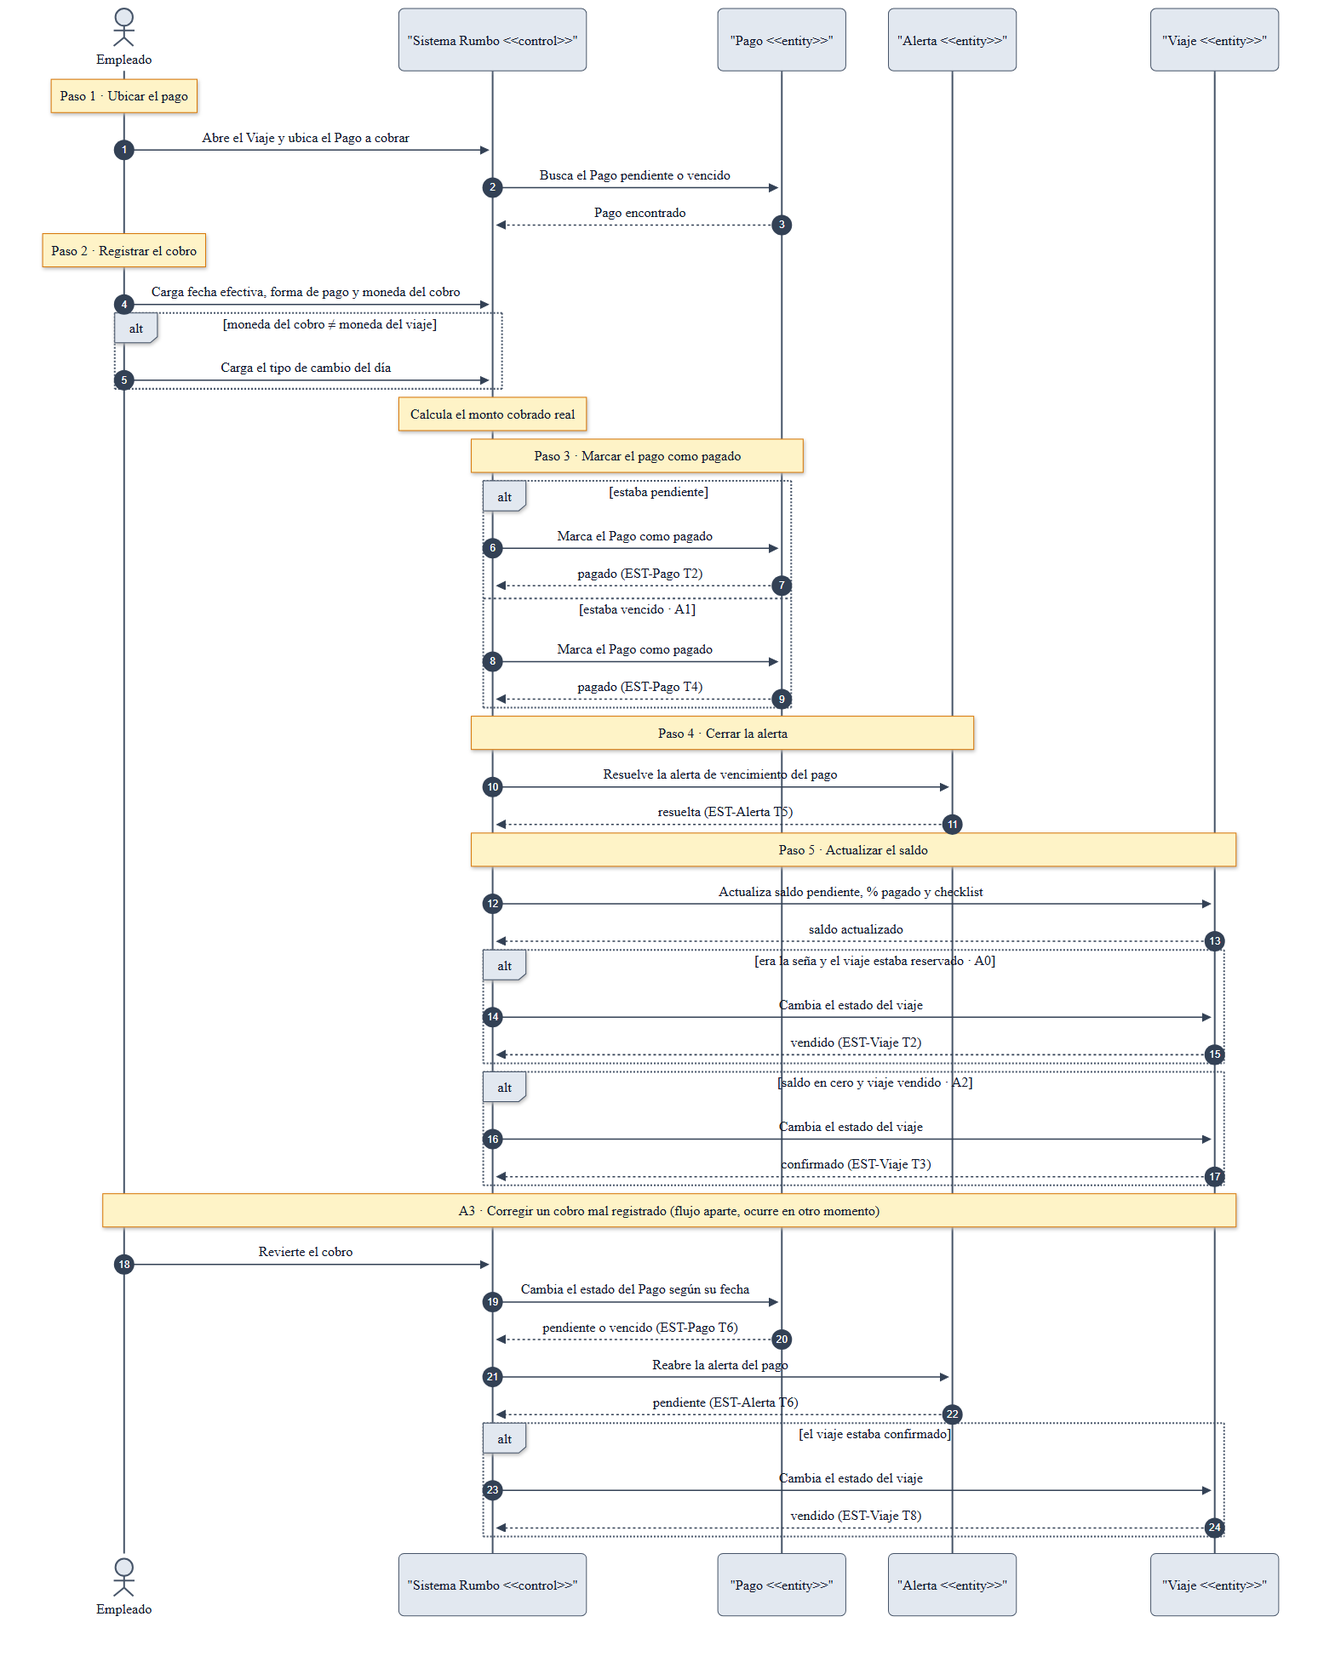
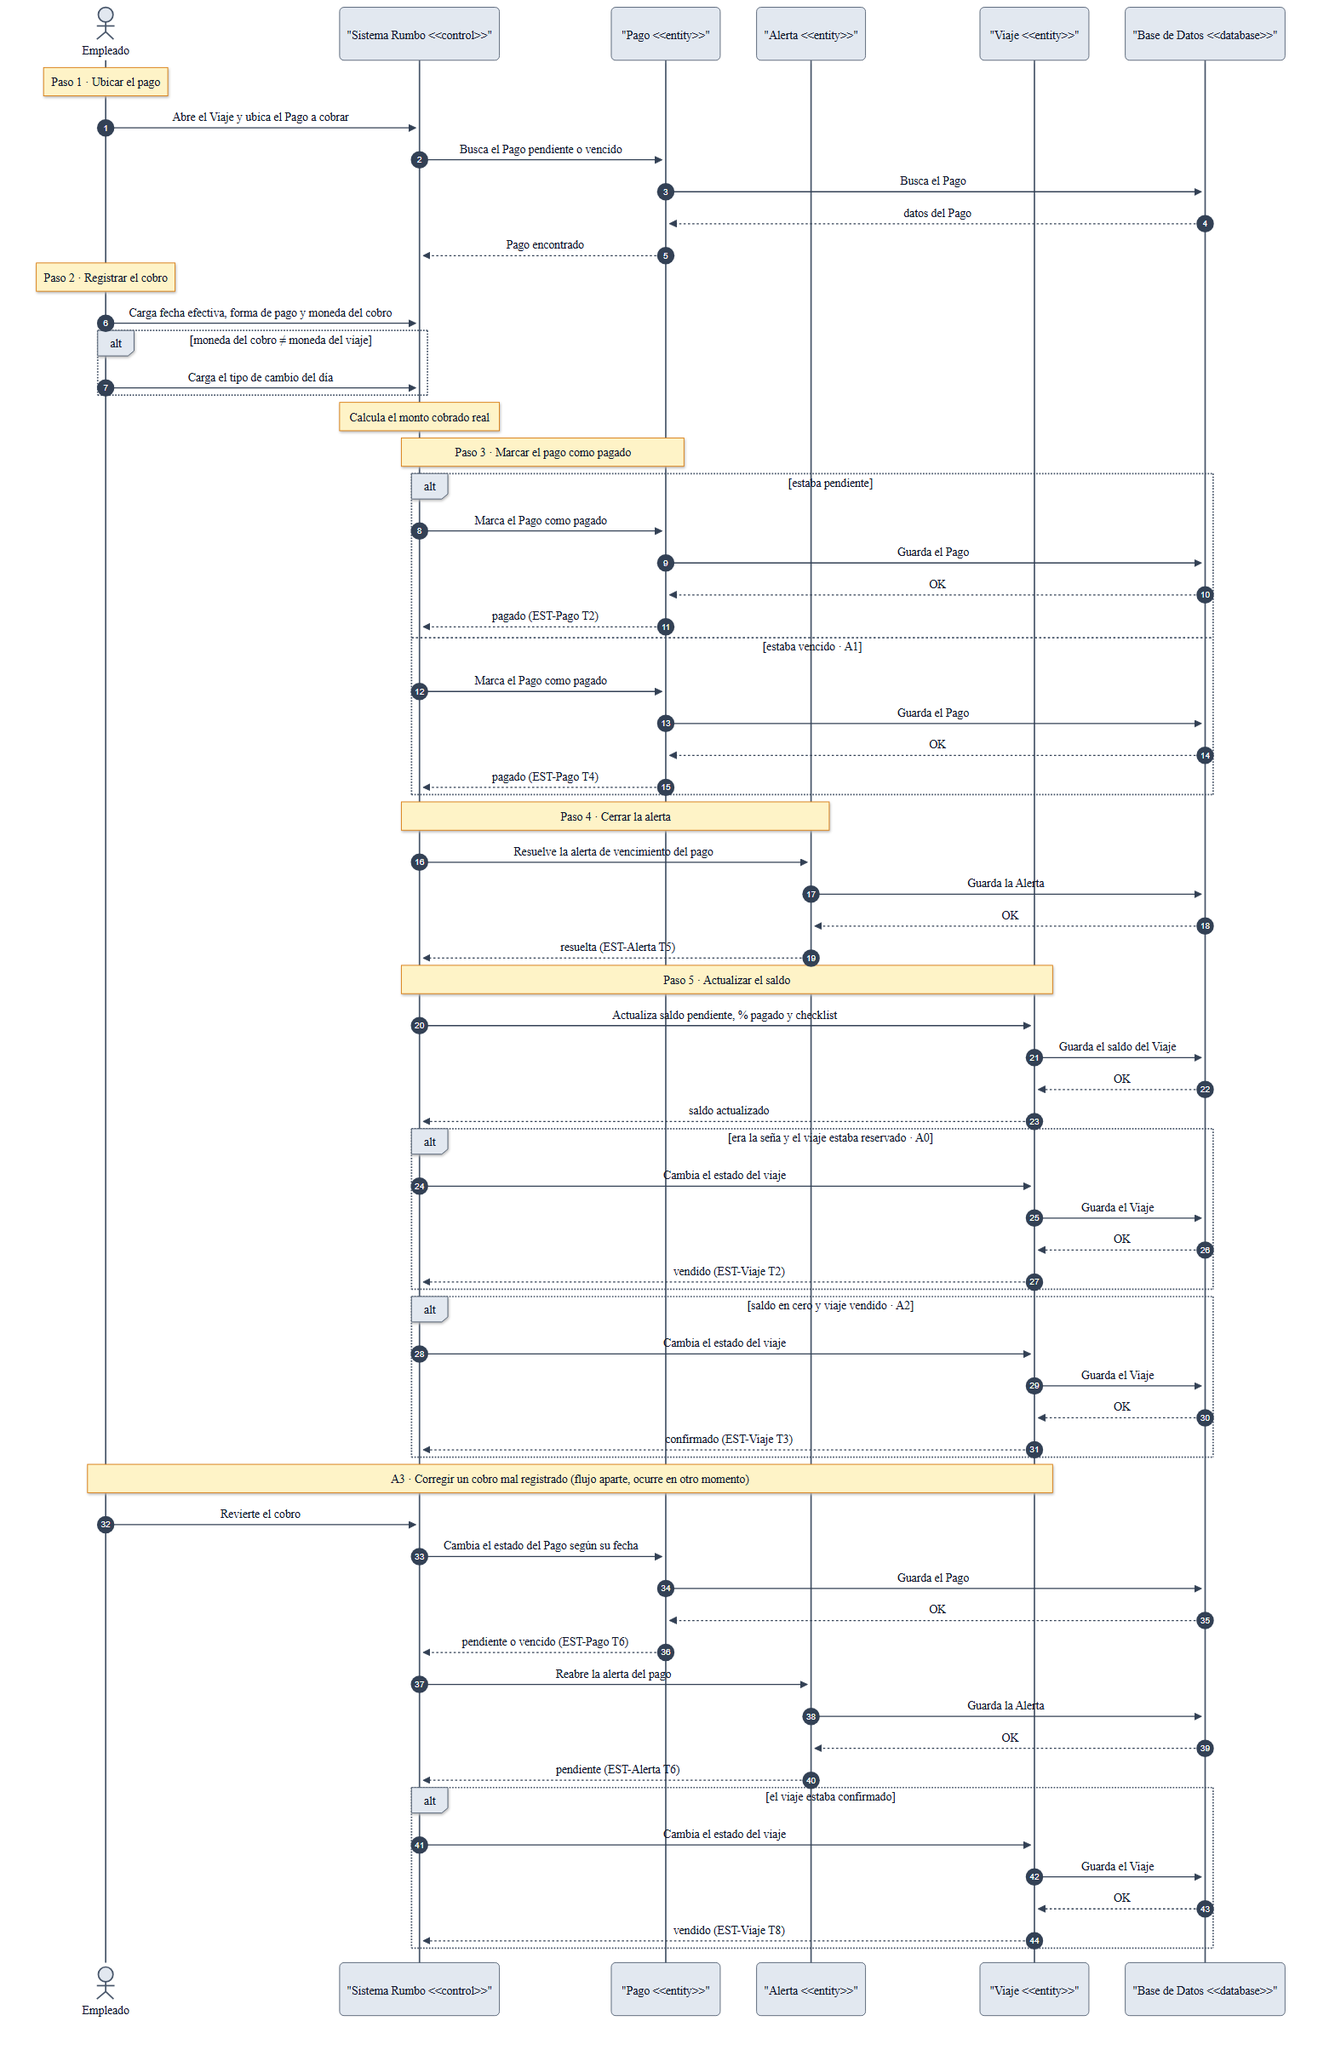
Sumar la Base de Datos a los diagramas de secuencia de analisis
A pedido de Nahuel: cada vez que una clase de entidad busca o
guarda informacion, se agrega su comunicacion con la Base de Datos.

- DEC-0010: nueva regla de notacion, participante `Base de Datos
  <<database>>` al final de la fila; ida y vuelta propio debajo de
  cada mensaje entidad-control que persiste o consulta. No es una
  clase de dominio (no va al diagrama de clases); es infraestructura.
- DGM-SEC — Confirmar reserva y DGM-SEC — Registrar cobro de un pago:
  agregado el participante BD y sus mensajes en cada busqueda/guardado
  (Oportunidad, Viaje, Pago, Alerta). Tablas de trazabilidad y
  convenciones actualizadas. PNG re-renderizados y verificados.
- Estado del proyecto y Bitacora de sesiones actualizados.

diff --git a/02-Analisis/Diagramas de secuencia/DGM-SEC — Confirmar reserva.md b/02-Analisis/Diagramas de secuencia/DGM-SEC — Confirmar reserva.md
@@ -27,11 +27,14 @@ sequenceDiagram
     participant V as "Viaje <<entity>>"
     participant P as "Pago <<entity>>"
     participant A as "Alerta <<entity>>"
+    participant BD as "Base de Datos <<database>>"
 
     Note over E: Paso 1 · Elige «Confirmar reserva»
     C->>E: Confirma la compra
     E->>S: Elige "Confirmar reserva" sobre la Oportunidad
     S->>O: Consulta el estado
+    O->>BD: Busca la Oportunidad
+    BD-->>O: datos de la Oportunidad
     alt sin cotización formal · A1
         O-->>S: ganada (venta directa)
     else con cotización aceptada
@@ -45,26 +48,36 @@ sequenceDiagram
     else datos completos
         Note over E: Paso 3 · Crear el viaje
         S->>V: Crea el Viaje asociado al Cliente y a la Oportunidad
+        V->>BD: Guarda el Viaje
+        BD-->>V: OK
         V-->>S: reservado (EST-Viaje T1)
         S->>O: Cierra la Oportunidad
+        O->>BD: Guarda el cambio de estado
+        BD-->>O: OK
         O-->>S: ganada y cerrada (EST-Oportunidad)
 
         Note over S,A: Paso 4 · Alertas del viaje (automático)
         par requisitos del destino
             alt destino con requisitos
                 S->>A: Genera una alerta "formulario" por requisito
+                A->>BD: Guarda la Alerta
+                BD-->>A: OK
                 A-->>S: pendiente (EST-Alerta T1)
             else sin requisitos · A2
                 Note over S: No genera alertas de formulario
             end
         and próxima salida
             S->>A: Genera la alerta "salida" (anticipación 7 días ⚠ sin validar)
+            A->>BD: Guarda la Alerta
+            BD-->>A: OK
             A-->>S: pendiente (EST-Alerta T1)
         end
 
         Note over E: Paso 5 · Economía, plan de cuotas e itinerario · CU-10, CU-11, CU-09
         E->>S: Carga moneda, operador, precio de venta, costo, vendedor y comisión
         S->>V: Calcula ganancia y margen · RN-01
+        V->>BD: Guarda la economía del Viaje
+        BD-->>V: OK
         V-->>S: ganancia, margen
         E->>S: Define las cuotas y la seña, con monto y vencimiento
         loop Σ montos ≠ precio de venta · CU-11 A1
@@ -72,8 +85,12 @@ sequenceDiagram
             E->>S: Corrige los montos
         end
         S->>P: Crea el plan de pagos
+        P->>BD: Guarda los Pagos del plan
+        BD-->>P: OK
         P-->>S: pendiente (EST-Pago T1)
         S->>A: Genera una alerta de vencimiento por pago, un mes antes
+        A->>BD: Guarda la Alerta
+        BD-->>A: OK
         A-->>S: pendiente (EST-Alerta T1)
         opt arma el itinerario · CU-09
             E->>S: Suma los hoteles del viaje
@@ -86,11 +103,11 @@ Cada `Note over` marca **un paso del camino principal** de [[CU-07 Confirmar res
 
 | Paso de CU-07 | Marco del diagrama | Mensajes clave | Estados que cambia |
 |---|---|---|---|
-| 1 · Elegir «Confirmar reserva» | Paso 1 | `E->>S` · `S->>O` | — |
+| 1 · Elegir «Confirmar reserva» | Paso 1 | `E->>S` · `S->>O` (busca en BD) | — |
 | 2 · Cargar los datos del viaje | Paso 2 | `E->>S` | — |
-| 3 · Crear el viaje | Paso 3 | `S->>V` · `S->>O` | [[EST-Viaje]] T1 |
-| 4 · Generar alertas de formulario y salida | Paso 4 | `par` → `S->>A` ×2 | [[EST-Alerta]] T1 |
-| 5 · Economía, plan de cuotas e itinerario | Paso 5 | `S->>V` · `S->>P` · `S->>A` | [[EST-Pago]] T1 · [[EST-Alerta]] T1 |
+| 3 · Crear el viaje | Paso 3 | `S->>V` · `S->>O` (ambas guardan en BD) | [[EST-Viaje]] T1 |
+| 4 · Generar alertas de formulario y salida | Paso 4 | `par` → `S->>A` ×2 (guardan en BD) | [[EST-Alerta]] T1 |
+| 5 · Economía, plan de cuotas e itinerario | Paso 5 | `S->>V` · `S->>P` · `S->>A` (todas guardan en BD) | [[EST-Pago]] T1 · [[EST-Alerta]] T1 |
 
 | Flujo alternativo | Dónde está |
 |---|---|
@@ -103,8 +120,9 @@ Los flujos alternativos propios de [[CU-10 Registrar economía del viaje]] (over
 
 ## Convenciones del diagrama
 Ver [[DEC-0010 Notación de los diagramas de actividad y de secuencia]]:
-- Participantes: actores (`Cliente`, `Empleado`) + una única clase de **control** (`Sistema Rumbo`) + las clases de **entidad** del dominio que este CU manipula (`Oportunidad`, `Viaje`, `Pago`, `Alerta`). No hay clase *boundary*.
+- Participantes: actores (`Cliente`, `Empleado`) + una única clase de **control** (`Sistema Rumbo`) + las clases de **entidad** del dominio que este CU manipula (`Oportunidad`, `Viaje`, `Pago`, `Alerta`) + la **Base de Datos**. No hay clase *boundary*.
 - Mensajes en **español, lenguaje natural** (no firmas de método): describen la interacción, no un contrato de API.
+- **Toda búsqueda o guardado pasa por la Base de Datos:** cada vez que una entidad consulta o persiste algo, se agrega su propio ida y vuelta con `BD` (`V->>BD: Guarda el Viaje` / `BD-->>V: OK`), debajo del mensaje entidad↔control correspondiente.
 - **Un `Note over` por paso** del camino principal, con su número y nombre. Las ramas usan `alt`/`opt`; el paralelo real de las dos alertas usa `par`/`and`.
 - Los cambios de estado citan su transición: `V-->>S: reservado (EST-Viaje T1)`.
 - `autonumber` y la misma paleta que [[DGM-SEC — De la consulta a la venta]].

diff --git a/02-Analisis/Diagramas de secuencia/DGM-SEC — Registrar cobro de un pago.md b/02-Analisis/Diagramas de secuencia/DGM-SEC — Registrar cobro de un pago.md
@@ -25,10 +25,13 @@ sequenceDiagram
     participant P as "Pago <<entity>>"
     participant A as "Alerta <<entity>>"
     participant V as "Viaje <<entity>>"
+    participant BD as "Base de Datos <<database>>"
 
     Note over E: Paso 1 · Ubicar el pago
     E->>S: Abre el Viaje y ubica el Pago a cobrar
     S->>P: Busca el Pago pendiente o vencido
+    P->>BD: Busca el Pago
+    BD-->>P: datos del Pago
     P-->>S: Pago encontrado
 
     Note over E: Paso 2 · Registrar el cobro
@@ -41,36 +44,54 @@ sequenceDiagram
     Note over S,P: Paso 3 · Marcar el pago como pagado
     alt estaba pendiente
         S->>P: Marca el Pago como pagado
+        P->>BD: Guarda el Pago
+        BD-->>P: OK
         P-->>S: pagado (EST-Pago T2)
     else estaba vencido · A1
         S->>P: Marca el Pago como pagado
+        P->>BD: Guarda el Pago
+        BD-->>P: OK
         P-->>S: pagado (EST-Pago T4)
     end
 
     Note over S,A: Paso 4 · Cerrar la alerta
     S->>A: Resuelve la alerta de vencimiento del pago
+    A->>BD: Guarda la Alerta
+    BD-->>A: OK
     A-->>S: resuelta (EST-Alerta T5)
 
     Note over S,V: Paso 5 · Actualizar el saldo
     S->>V: Actualiza saldo pendiente, % pagado y checklist
+    V->>BD: Guarda el saldo del Viaje
+    BD-->>V: OK
     V-->>S: saldo actualizado
     alt era la seña y el viaje estaba reservado · A0
         S->>V: Cambia el estado del viaje
+        V->>BD: Guarda el Viaje
+        BD-->>V: OK
         V-->>S: vendido (EST-Viaje T2)
     end
     alt saldo en cero y viaje vendido · A2
         S->>V: Cambia el estado del viaje
+        V->>BD: Guarda el Viaje
+        BD-->>V: OK
         V-->>S: confirmado (EST-Viaje T3)
     end
 
     Note over E,V: A3 · Corregir un cobro mal registrado (flujo aparte, ocurre en otro momento)
     E->>S: Revierte el cobro
     S->>P: Cambia el estado del Pago según su fecha
+    P->>BD: Guarda el Pago
+    BD-->>P: OK
     P-->>S: pendiente o vencido (EST-Pago T6)
     S->>A: Reabre la alerta del pago
+    A->>BD: Guarda la Alerta
+    BD-->>A: OK
     A-->>S: pendiente (EST-Alerta T6)
     alt el viaje estaba confirmado
         S->>V: Cambia el estado del viaje
+        V->>BD: Guarda el Viaje
+        BD-->>V: OK
         V-->>S: vendido (EST-Viaje T8)
     end
 ```
@@ -80,11 +101,11 @@ Cada `Note over` marca **un paso del camino principal** de [[CU-12 Registrar cob
 
 | Paso de CU-12 | Marco del diagrama | Mensajes clave | Estados que cambia |
 |---|---|---|---|
-| 1 · Ubicar el pago | Paso 1 | `E->>S` · `S->>P` | — |
+| 1 · Ubicar el pago | Paso 1 | `E->>S` · `S->>P` (busca en BD) | — |
 | 2 · Registrar el cobro (fecha, forma de pago, moneda, tipo de cambio) | Paso 2 | `E->>S` ×2 | — |
-| 3 · Marcar el pago como pagado | Paso 3 | `S->>P` | [[EST-Pago]] T2 o T4 |
-| 4 · Resolver la alerta del pago | Paso 4 | `S->>A` | [[EST-Alerta]] T5 |
-| 5 · Actualizar saldo, % pagado y checklist | Paso 5 | `S->>V` | [[EST-Viaje]] T2, T3 |
+| 3 · Marcar el pago como pagado | Paso 3 | `S->>P` (guarda en BD) | [[EST-Pago]] T2 o T4 |
+| 4 · Resolver la alerta del pago | Paso 4 | `S->>A` (guarda en BD) | [[EST-Alerta]] T5 |
+| 5 · Actualizar saldo, % pagado y checklist | Paso 5 | `S->>V` (guarda en BD) | [[EST-Viaje]] T2, T3 |
 
 | Flujo alternativo | Dónde está |
 |---|---|
@@ -94,7 +115,7 @@ Cada `Note over` marca **un paso del camino principal** de [[CU-12 Registrar cob
 | **A3** · Corregir el cobro | Continuación cronológica al final, sin rama · [[EST-Pago]] T6 · [[EST-Alerta]] T6 · [[EST-Viaje]] T8 |
 
 ## Convenciones del diagrama
-Ver [[DEC-0010 Notación de los diagramas de actividad y de secuencia]] y [[DGM-SEC — Confirmar reserva#Convenciones del diagrama]] (mismas reglas).
+Ver [[DEC-0010 Notación de los diagramas de actividad y de secuencia]] y [[DGM-SEC — Confirmar reserva#Convenciones del diagrama]] (mismas reglas, incluida la **Base de Datos** como participante final: toda búsqueda o guardado de una entidad tiene su ida y vuelta con `BD`).
 - **Flujo aparte (A3):** a diferencia de [[DGM-ACT — Registrar cobro de un pago]] (que necesita un nodo inicial separado por el layout de `flowchart`), en `sequenceDiagram` alcanza con dibujarlo **más abajo**, con un `Note` que lo anuncia: la secuencia ya es cronológica de arriba a abajo.
 
 ## Cómo mantenerlo

diff --git a/00-Inicio/Bitácora de sesiones.md b/00-Inicio/Bitácora de sesiones.md
@@ -34,8 +34,9 @@ Es **obligatorio** nombrar a la persona que hizo la sesión.
 - **Hecho:** Se cerró el detalle de notación que [[DEC-0010 Notación de los diagramas de actividad y de secuencia]] dejaba pendiente para los `DGM-SEC`, acordado con Nahuel antes de dibujar: (1) el [[DGM-SEC — De la consulta a la venta]] existente **se conserva tal cual** como vista de negocio (Figura 1 del relevamiento); los diagramas nuevos con clases van aparte, en `02-Analisis/Diagramas de secuencia/`; (2) participantes = actores + una única clase de **control** (`Sistema Rumbo <<control>>`) + las clases de **entidad** del dominio que cada CU manipula, **sin clase boundary**; (3) mensajes en **español, lenguaje natural** (no firmas de método), porque el diagrama de clases de dominio no lleva operaciones. Se dibujaron los dos primeros de los tres acordados (CU-07 y CU-12, los que más huecos de estado dejaron en los `DGM-ACT`): [[DGM-SEC — Confirmar reserva]] y [[DGM-SEC — Registrar cobro de un pago]], con un `Note over` por paso del camino principal (misma trazabilidad que los `DGM-ACT`) y las transiciones `EST-*` citadas en cada respuesta. Se sumó `render-diagramas-secuencia.sh` (PNG en `img/`, ambos verificados con `mermaid-cli`) y se enlazaron desde CU-07, CU-12 y el [[MOC — Casos de uso]].
 - **Hallazgo de layout:** en `sequenceDiagram` un "flujo aparte" (como A3 de CU-12, que ocurre en otro momento) **no necesita el truco de layout** que sí hace falta en `flowchart` (nodo inicial + enlace invisible): al ser cronológico de arriba a abajo, alcanza con seguir dibujando más abajo y anunciarlo con un `Note`.
 - **Sin hallazgos nuevos de dominio:** ambos diagramas dibujan lo que ya decían sus `DGM-ACT`; los huecos son los mismos (ver la Revisión de cada nota).
-- **Commits:** b3650e7.
-- **Pendiente:** falta el tercero, [[CU-27 Cancelar viaje|CU-27]]. Ratificar en la sync los dos ya hechos y la convención de participantes.
+- **Ampliación (mismo día, a pedido de Nahuel):** se sumó la **Base de Datos** como participante `<<database>>` al final de la fila, en ambos `DGM-SEC`. Regla agregada a [[DEC-0010 Notación de los diagramas de actividad y de secuencia|DEC-0010]]: **toda vez que una clase de entidad busca o guarda información, se comunica con la Base de Datos** (ida y vuelta propio, debajo del mensaje entidad↔control). No es una clase de dominio nueva (no va al [[DGM — Diagrama de clases]]); es infraestructura, como el [[DGM-ER]]. Los dos diagramas se re-renderizaron y verificaron.
+- **Commits:** b3650e7, a69c6c7 y el de esta ampliación (ver hash al cierre).
+- **Pendiente:** falta el tercero, [[CU-27 Cancelar viaje|CU-27]] (ahora también con la Base de Datos). Ratificar en la sync los dos ya hechos, la convención de participantes y el agregado de la Base de Datos.
 
 ## 25/09/26 — Nahuel (Claude Opus 5.5) — cierre: decisiones documentadas y handoff
 - **Hecho:** Se registró [[DEC-0010 Notación de los diagramas de actividad y de secuencia]] (`en-revision`): notación UML de actividad en `flowchart` de Mermaid y diagramas de secuencia con las clases del sistema como participantes, con las alternativas descartadas (PlantUML, sintaxis de secuencia, `block-beta`). Se agregó al [[Estado del proyecto]] una **Agenda para la próxima sync** que indexa todas las decisiones abiertas (ratificaciones, los 18 huecos de los diagramas de actividad y los pendientes previos), con punteros a su nota. Se sumó el puntero a DEC-0010 en el [[MOC — Decisiones (ADR)]] y en la memoria del proyecto.

diff --git a/00-Inicio/Estado del proyecto.md b/00-Inicio/Estado del proyecto.md
@@ -30,7 +30,7 @@ Los tres tomamos **los tres roles** (Coordinador de vault · Guardián del domin
 - [ ] Prototipo UI de pantallas clave (Figma)
 
 ### Recomendado (buenas prácticas — refuerzan el modelo)
-- [ ] Diagramas de **secuencia** de CU clave (consulta→cotización→reserva, registrar pago) — ⏳ el de negocio ya estaba: [[DGM-SEC — De la consulta a la venta]] (22/09, Figura 1 del relevamiento, se conserva tal cual). **25/09 (Nahuel):** se sumaron dos diagramas de secuencia de análisis (clases del sistema como participantes, control `Sistema Rumbo` + entidades), en `02-Analisis/Diagramas de secuencia/`: [[DGM-SEC — Confirmar reserva|CU-07]] y [[DGM-SEC — Registrar cobro de un pago|CU-12]]. La notación quedó cerrada en [[DEC-0010 Notación de los diagramas de actividad y de secuencia|DEC-0010]]. Falta **CU-27 Cancelar viaje** y **ratificar** los dos ya hechos
+- [ ] Diagramas de **secuencia** de CU clave (consulta→cotización→reserva, registrar pago) — ⏳ el de negocio ya estaba: [[DGM-SEC — De la consulta a la venta]] (22/09, Figura 1 del relevamiento, se conserva tal cual). **25/09 (Nahuel):** se sumaron dos diagramas de secuencia de análisis (clases del sistema como participantes, control `Sistema Rumbo` + entidades + **Base de Datos** para cada búsqueda/guardado), en `02-Analisis/Diagramas de secuencia/`: [[DGM-SEC — Confirmar reserva|CU-07]] y [[DGM-SEC — Registrar cobro de un pago|CU-12]]. La notación quedó cerrada en [[DEC-0010 Notación de los diagramas de actividad y de secuencia|DEC-0010]]. Falta **CU-27 Cancelar viaje** y **ratificar** los dos ya hechos
 - [x] Diagramas de **estado**: `Viaje`, `Oportunidad`, `Pago` (+ `Cotización`, `Alerta`, `ContenidoRed`) — ✅ **los 6 especificados y dibujados** el 21/09 en `03-Dominio/Diagramas/Estados/` (ver tabla en [[MOC — Modelo de dominio]]). Falta **ratificarlos en la sync**, junto con los dos cambios de modelo (`Cotización.vencida` y `ContenidoRed.descartado`) y los defaults sin validar
 - [ ] **Matriz de trazabilidad** (objetivo → CU → entidad → regla) — ⏳ **medio hecha**: la matriz **CU → RF** (los 31 CU) ya está en [[Requisitos funcionales]]; falta el tramo **objetivo → CU** y **CU → entidad/regla**
 - [ ] Catálogo de **reglas de negocio** ampliado (hoy solo [[RN-01 Comisión automática]])

diff --git a/05-Diseño/Decisiones/DEC-0010 Notación de los diagramas de actividad y de secuencia.md b/05-Diseño/Decisiones/DEC-0010 Notación de los diagramas de actividad y de secuencia.md
@@ -34,6 +34,7 @@ Al rehacerlos apareció un límite técnico: **Mermaid no dibuja carriles en col
   - **Un marco (`Note over`) por paso del camino principal**, igual que en los `DGM-ACT`, para poder cruzar el diagrama con la tabla de trazabilidad del CU. El flujo alternativo que abre una rama usa `alt`/`opt`; el paralelo real (ej. las dos alertas de CU-07 paso 4) usa `par`/`and`. Un **flujo aparte** que ocurre en otro momento (ej. revertir un cobro) **no necesita un truco de layout** como en actividad: al ser un diagrama de secuencia ya es cronológico de arriba a abajo, así que se dibuja simplemente más abajo, con una `Note` que lo anuncia (`A3 · Corregir un cobro mal registrado (flujo aparte)`).
   - **Cambios de estado** en la respuesta de la entidad, citando la transición: `V-->>S: reservado (EST-Viaje T1)`.
   - `autonumber` y la misma paleta (`%%{init}%%` con `theme: base`) que [[DGM-SEC — De la consulta a la venta]], para que los dos tipos de `DGM-SEC` se vean parientes.
+- **Persistencia (agregado el 25/09, a pedido de Nahuel):** se suma un participante más, `Base de Datos <<database>>`, al final de la fila de participantes (después de las entidades). **Toda vez que una clase de entidad busca o guarda información, se comunica con la Base de Datos** con su propio ida y vuelta: `V->>BD: Guarda el Viaje` / `BD-->>V: OK` (para guardar), o `P->>BD: Busca el Pago pendiente o vencido` / `BD-->>P: Pago encontrado` (para buscar). La entidad sigue siendo el interlocutor del control (`Sistema Rumbo`); la Base de Datos solo aparece **debajo** de la entidad que la consulta, nunca directamente con el control ni con los actores. Motivo: hace explícito que las clases de dominio no guardan estado en memoria por sí solas, sin necesidad de convertir la Base de Datos en una clase de dominio (no está en el [[DGM — Diagrama de clases]]; es infraestructura, como el [[DGM-ER]]).
 - **El `DGM-SEC` del relevamiento no se toca:** [[DGM-SEC — De la consulta a la venta]] queda como está (actores + "Sistema Rumbo" como caja negra) porque es la Figura 1 del entregable de relevamiento, un documento de negocio para la agencia; los `DGM-SEC` nuevos con clases son la vista de **análisis/diseño**, en una nota aparte por CU.
 
 ## Alternativas consideradas
